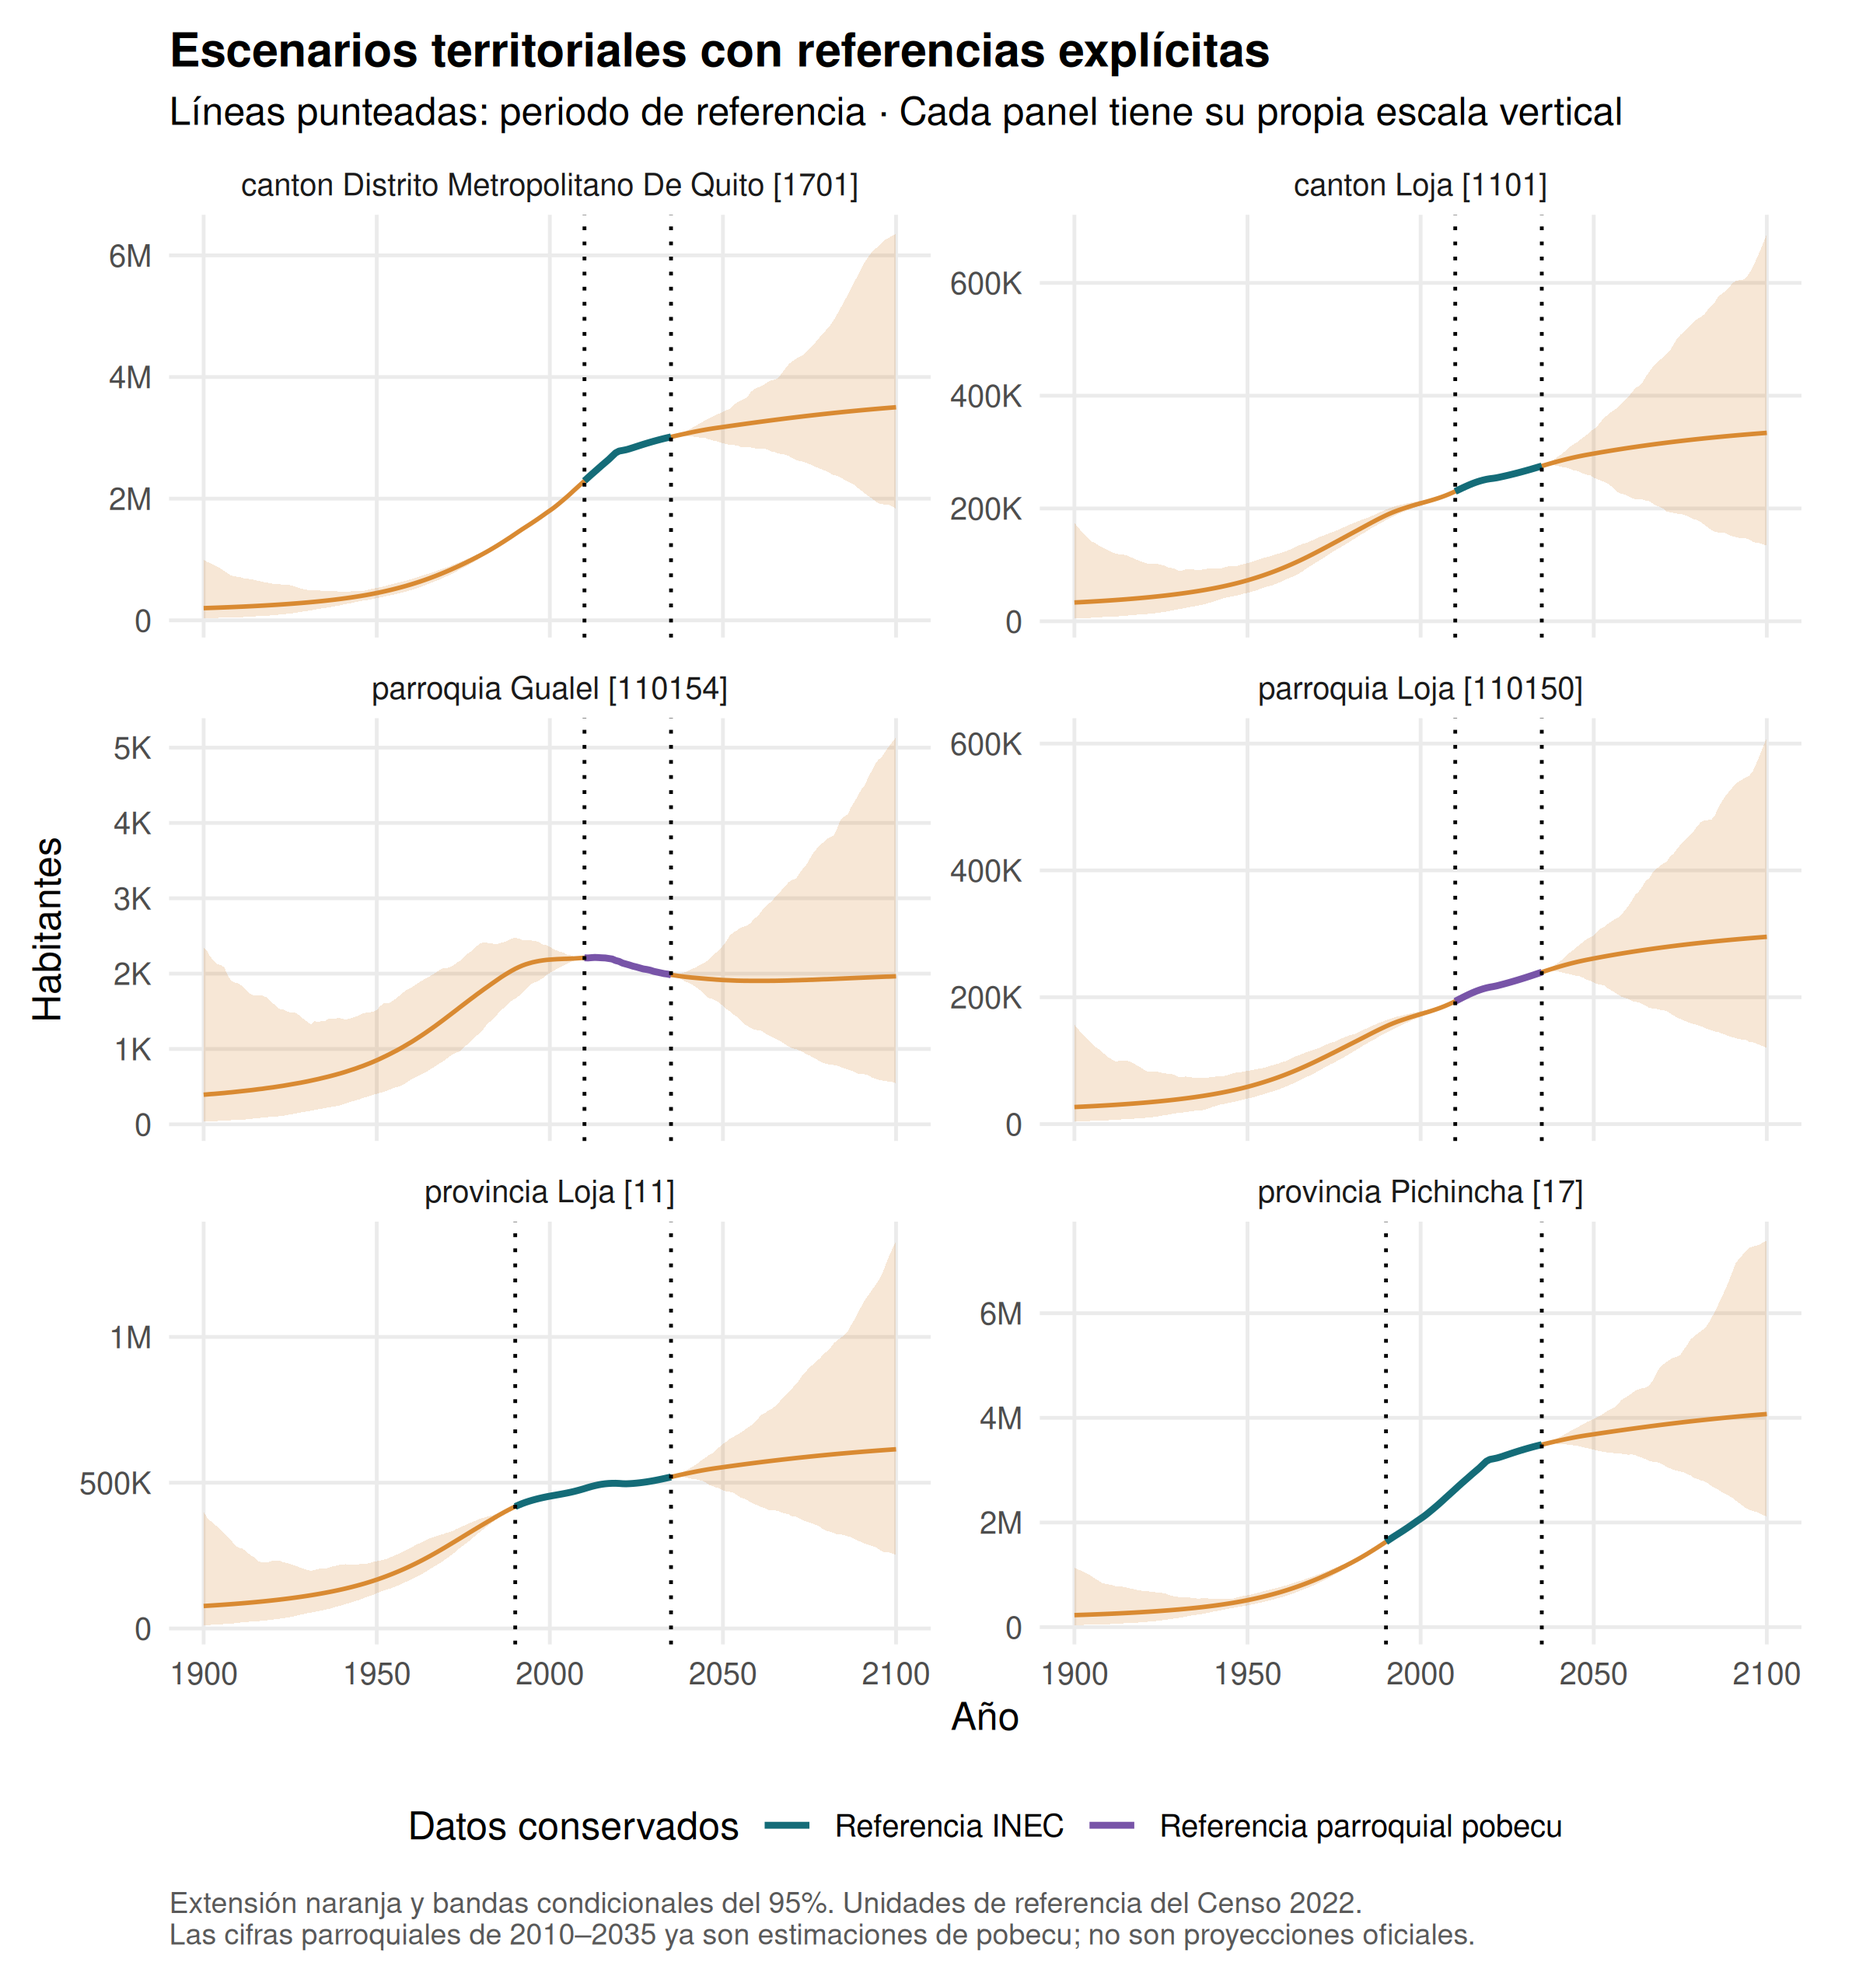
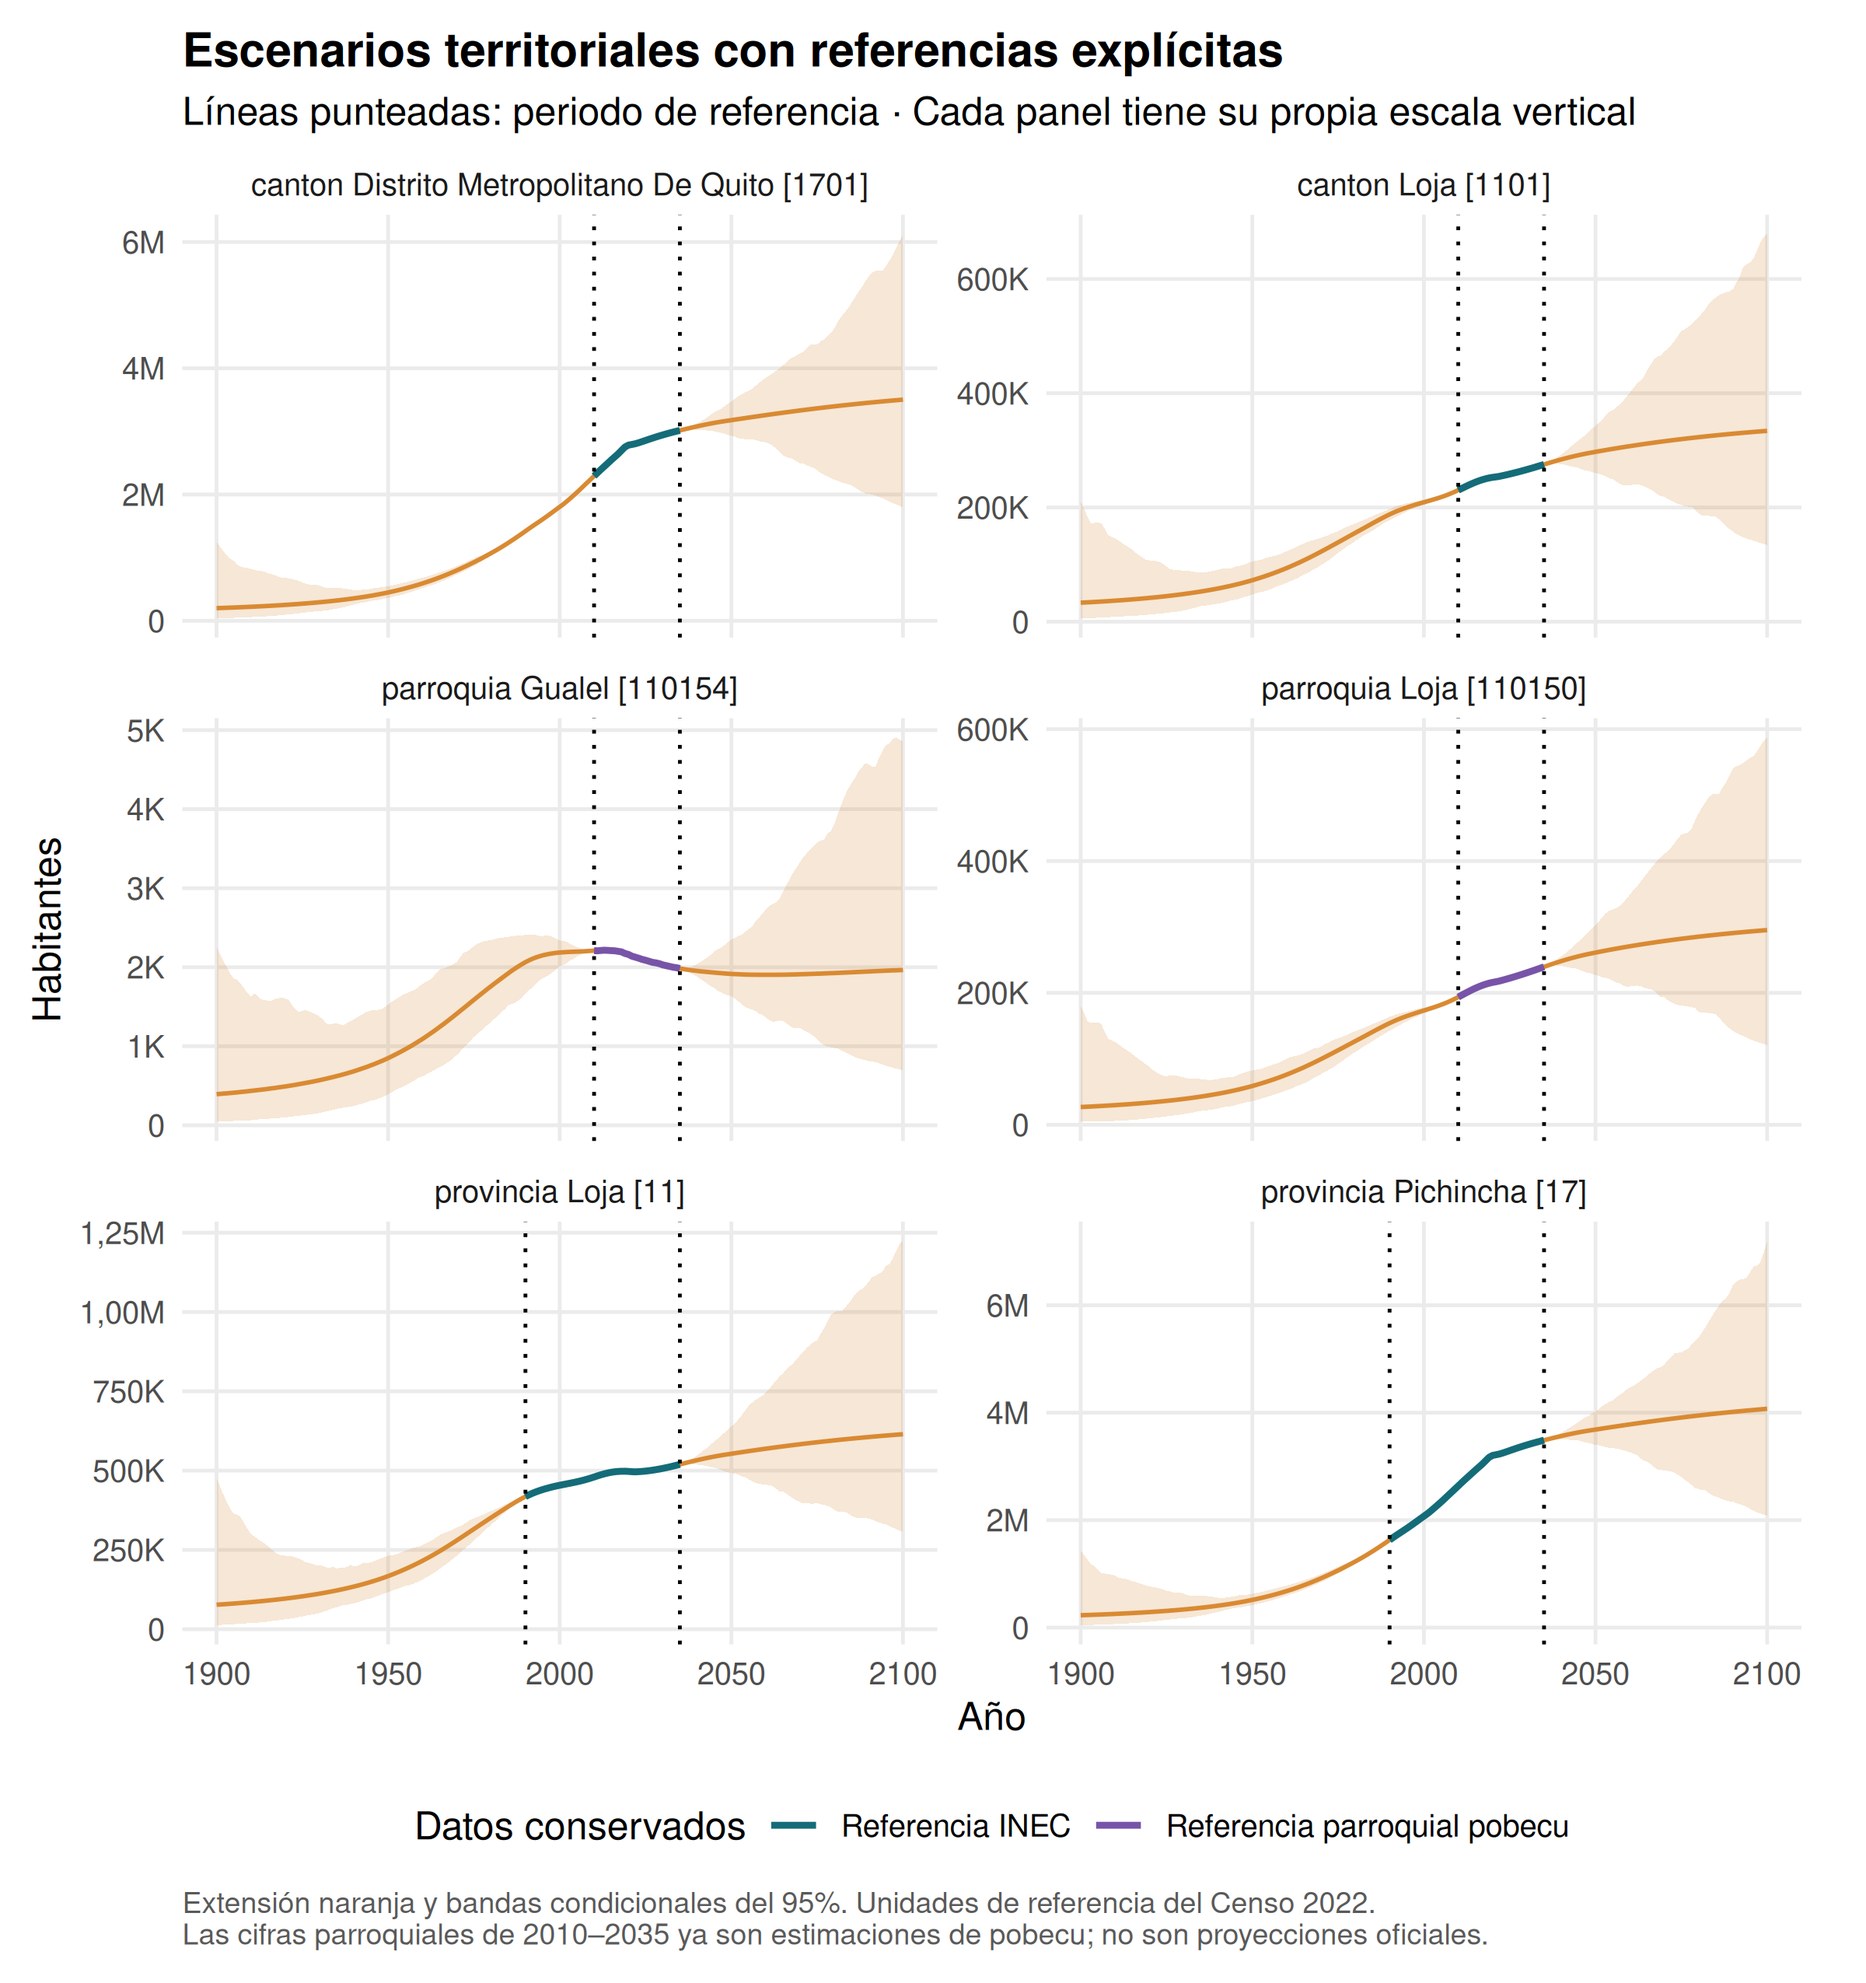
Regenerate README with per-group seeds and geoecu 0.4.1 areas

diff --git a/README.md b/README.md
@@ -543,22 +543,22 @@ detalle_mapa$area_km2 <- round(detalle_mapa$area_km2, 2)
 detalle_mapa$densidad <- round(detalle_mapa$densidad, 2)
 detalle_mapa[order(-detalle_mapa$densidad), ]
 #>    dpa_canton       canton poblacion area_km2 densidad
-#> 1        1101         Loja    258514  1891.24   136.69
+#> 1        1101         Loja    258514  1890.99   136.71
 #> 3        1103     Catamayo     36428   651.85    55.88
-#> 14       1114       Pindal     10987   202.00    54.39
-#> 16       1116       Olmedo      4134   113.78    36.33
-#> 8        1108       Macará     18520   573.03    32.32
-#> 2        1102       Calvas     26374   851.00    30.99
-#> 4        1104       Celica     14676   521.60    28.14
-#> 6        1106    Espíndola     14277   516.25    27.66
-#> 11       1111     Saraguro     29588  1084.88    27.27
-#> 10       1110      Puyango     16559   636.99    26.00
-#> 5        1105 Chaguarpamba      6875   313.23    21.95
-#> 9        1109       Paltas     22929  1156.17    19.83
-#> 7        1107    Gonzanamá     12421   681.90    18.22
+#> 14       1114       Pindal     10987   202.12    54.36
+#> 16       1116       Olmedo      4134   113.80    36.33
+#> 8        1108       Macará     18520   573.28    32.31
+#> 2        1102       Calvas     26374   851.17    30.99
+#> 4        1104       Celica     14676   521.86    28.12
+#> 6        1106    Espíndola     14277   516.26    27.65
+#> 11       1111     Saraguro     29588  1084.80    27.28
+#> 10       1110      Puyango     16559   637.33    25.98
+#> 5        1105 Chaguarpamba      6875   313.31    21.94
+#> 9        1109       Paltas     22929  1156.54    19.83
+#> 7        1107    Gonzanamá     12421   681.95    18.21
 #> 15       1115     Quilanga      3925   236.52    16.59
-#> 12       1112    Sozoranga      6917   421.88    16.40
-#> 13       1113    Zapotillo     15333  1211.58    12.66
+#> 12       1112    Sozoranga      6917   422.02    16.39
+#> 13       1113    Zapotillo     15333  1212.38    12.65
 
 grafico_mapa <- ggplot(mapa) +
   geom_sf(aes(fill = densidad), color = "white", linewidth = 0.3) +
@@ -593,12 +593,12 @@ Comprueba los insumos y reproduce el cociente con la tabla del mapa:
 stopifnot(all.equal(mapa$densidad, mapa$poblacion / mapa$area_km2))
 head(detalle_mapa[c("canton", "poblacion", "area_km2", "densidad")])
 #>         canton poblacion area_km2 densidad
-#> 1         Loja    258514  1891.24   136.69
-#> 2       Calvas     26374   851.00    30.99
+#> 1         Loja    258514  1890.99   136.71
+#> 2       Calvas     26374   851.17    30.99
 #> 3     Catamayo     36428   651.85    55.88
-#> 4       Celica     14676   521.60    28.14
-#> 5 Chaguarpamba      6875   313.23    21.95
-#> 6    Espíndola     14277   516.25    27.66
+#> 4       Celica     14676   521.86    28.12
+#> 5 Chaguarpamba      6875   313.31    21.94
+#> 6    Espíndola     14277   516.26    27.65
 ```
 
 ## 10. Guardar resultados y trabajar sin conexión
@@ -1088,11 +1088,11 @@ precisión en 1900–2100.
 | 75 | prospectiva | parroquia | constante | 5 | 5.048 | NA |
 | 85 | retrospectiva | nacional | estructural_CLR | 5 | 1.358 | 1.000 |
 | 90 | retrospectiva | nacional | constante | 5 | 9.309 | NA |
-| 95 | retrospectiva | provincia | estructural_CLR | 5 | 1.460 | 0.792 |
+| 95 | retrospectiva | provincia | estructural_CLR | 5 | 1.460 | 0.833 |
 | 100 | retrospectiva | provincia | constante | 5 | 9.309 | NA |
-| 105 | retrospectiva | canton | estructural_CLR | 5 | 1.477 | 0.910 |
+| 105 | retrospectiva | canton | estructural_CLR | 5 | 1.477 | 0.919 |
 | 110 | retrospectiva | canton | constante | 5 | 9.540 | NA |
-| 115 | retrospectiva | parroquia | estructural_CLR | 5 | 1.544 | 0.924 |
+| 115 | retrospectiva | parroquia | estructural_CLR | 5 | 1.544 | 0.926 |
 | 120 | retrospectiva | parroquia | constante | 5 | 9.986 | NA |
 
 Evaluación a cinco años: WAPE (%) y cobertura de bandas condicionales
